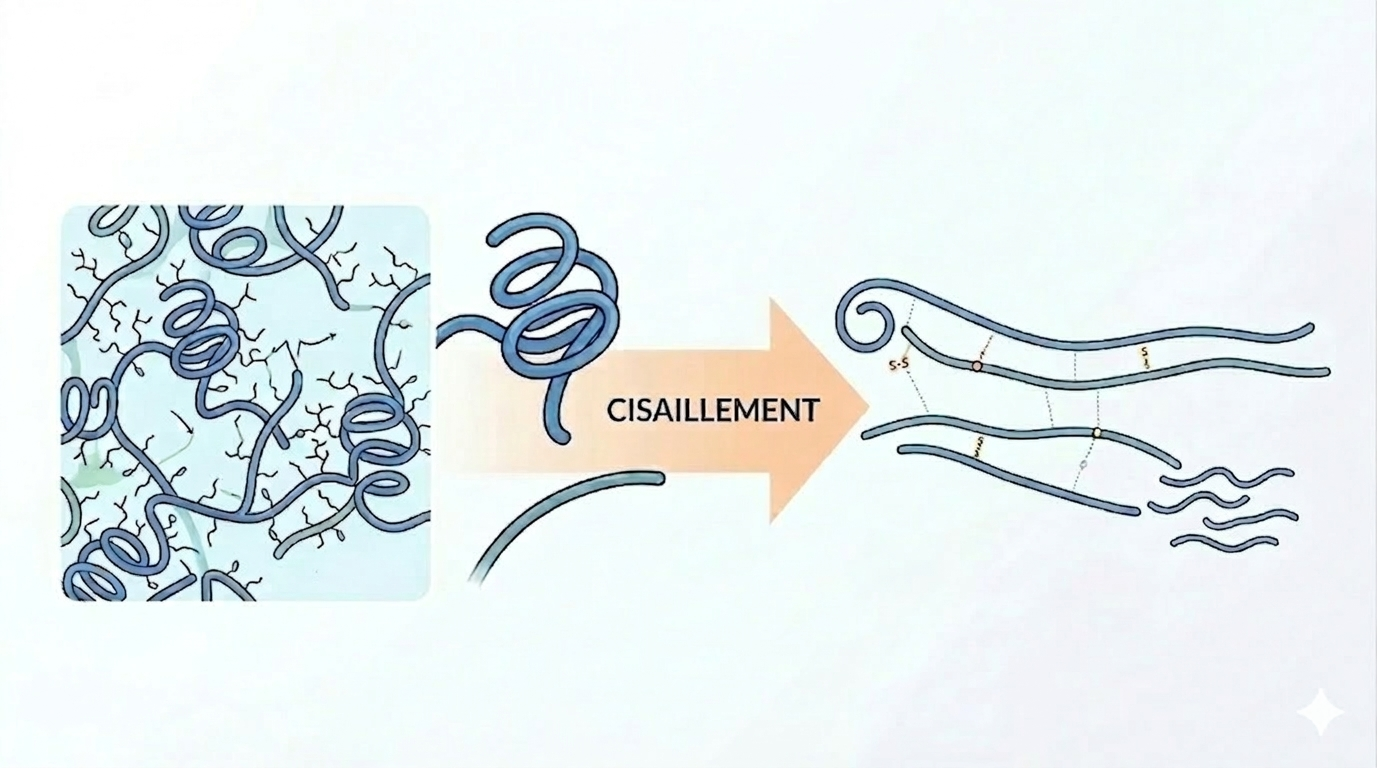
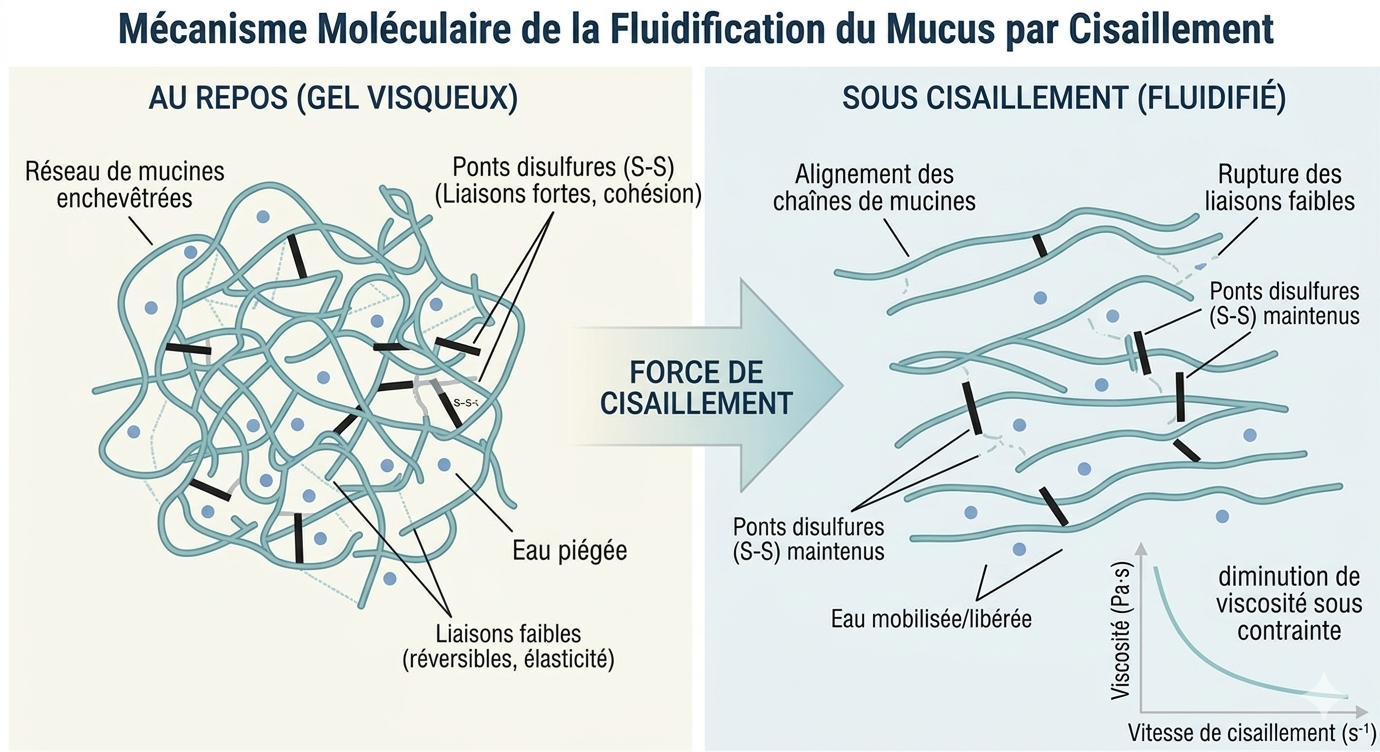
Add files via upload

diff --git a/article-respi.html b/article-respi.html
@@ -4,7 +4,7 @@
     <link href="https://fonts.googleapis.com/css2?family=Oswald:wght@700&family=Inter:wght@400;700;900&display=swap" rel="stylesheet">
     <meta charset="UTF-8">
     <meta name="viewport" content="width=device-width, initial-scale=1.0">
-    <title>La kinésithérapie respiratoire expliquée par une chimiste</title>
+    <title>Désencombrement bronchique : Quand la chimie explique le geste du kinésithérapeute</title>
     <link rel="stylesheet" href="style.css">
 </head>
 <body>
@@ -19,24 +19,29 @@
 
     <article class="article-content">
         <div class="post-preview" style="display: block; border: none; padding: 0;">
-            <h1>La kinésithérapie respiratoire expliquée par une chimiste</h1>
+            <h1>Désencombrement bronchique : Quand la chimie explique le geste du kinésithérapeute</h1>
             <p class="post-meta" style="margin-top: 1rem;">Publié le 14 Février 2026 • 6 min de lecture</p>
         </div>
 
-        <p>Lors de mon stage en service de réanimation, j’ai pu observer la vulnérabilité respiratoire des patients, souvent accentuée par le recours à une assistance respiratoire invasive. Qu'il s'agisse d'une sonde d’intubation ou d'une canule de trachéotomie, ces dispositifs exposent systématiquement au risque <b>d’encombrement bronchique.</b> Ce phénomène traduit une <b>défaillance des mécanismes naturels de protection</b> que le kinésithérapeute a pour objectif de pallier.</p>
+        <p>Lors de mon stage en service de réanimation, j’ai pu observer la vulnérabilité respiratoire des patients, souvent accentuée par le recours à une assistance respiratoire invasive. Qu'il s'agisse d'une sonde d’intubation ou d'une canule de trachéotomie, ces dispositifs exposent systématiquement au risque <b>d’encombrement bronchique.</b></p>
         
-        <p>Pour comprendre l'impact des techniques pratiquées par le kinésithérapeute sur un encombrement bronchique, j’ai dû plonger dans la chimie et la biophysique du <b>mucus.</b></p>
+        <p>Pour comprendre le rôle du kinésithérapeute dans la prise en charge d'un encombrement bronchique, j’ai dû plonger dans la physico-chimie du <b>mucus.</b></p>
 
         <h2>Le rôle du mucus dans la protection des voies respiratoires</h2>
         
-        <p>Véritable barrière protectrice des voies respiratoires, le mucus agit comme un filtre en piégeant les bactéries et les poussières avant qu'elles n'atteignent les zones profondes des poumons. Parallèlement à ce rôle de protection, il assure également l'hydratation et la lubrification de la paroi respiratoire, empêchant ainsi l'air inspiré de la dessécher ou de l'irriter.</p>
+        <p>Véritable barrière protectrice des voies respiratoires, le mucus agit comme un filtre en piégeant les bactéries, les virus et les particules de poussières avant qu'elles n'atteignent les zones profondes des poumons.
+            Ce mucus chargé d’impuretés est ensuite transporté vers
+            les voies aériennes supérieures grâce au mouvement des cils vibratiles : ce mécanisme
+            appelé clairance mucociliaire, permet leur élimination vers l’extérieur. </p>
         
-        <p>Ce double rôle s’explique par sa structure chimique. Cet hydrogel est composé à 97,5% d’eau, 0,9% de sels et 1,5% de molécules organiques, principalement des <b>mucines.</b> Ces protéines forment un réseau tridimensionnel dont la structure particulière lui confère des propriétés physiques essentielles :</p>
+        <p>Parallèlement à ce rôle de protection, le mucus assure également l'hydratation et la lubrification de la paroi respiratoire, empêchant ainsi l'air inspiré de la dessécher ou de l'irriter.</p>
+        
+        <p>Ce double rôle s’explique par sa structure chimique. Cet hydrogel est composé à 97,5% d’eau, 0,9% de sels et 1,5% de molécules organiques, principalement des <b>mucines.</b> Ces protéines forment un réseau tridimensionnel dont la structure particulière lui confère des propriétés physico-chimiques caractéristiques :</p>
 
         <ul>
-            <li><strong>La viscosité :</strong> elle est due aux liaisons covalentes fortes (ponts disulfures S-S) qui lient les mucines entre elles, permettant de capturer efficacement les agents pathogènes.</li>
-            <li><strong>L'élasticité :</strong> cette propriété repose sur des liaisons réversibles de faible énergie. Ces liaisons peuvent se rompre sous une contrainte mécanique, permettant au mucus de s'écouler : c'est la <b>pseudoplasticité.</b> Une fois la contrainte passée, le réseau se reforme, permettant au mucus de reprendre sa forme sans se rompre.</li>
-            <li><strong>La rétention d'eau :</strong> le réseau de mucines agit comme une éponge, maintenant l'humidité indispensable à la survie des cellules respiratoires.</li>
+            <li><strong>La viscosité :</strong> elle est due aux liaisons covalentes fortes (ponts disulfures S-S) qui lient les mucines entre elles, permettant de capturer efficacement les impuretés..</li>
+            <li><strong>L'élasticité :</strong> elle repose sur des liaisons réversibles de faible énergie. Ces liaisons peuvent se rompre sous une contrainte mécanique, permettant au mucus de se déformer et de se reformer.</li>
+            <li><strong>La rétention d'eau :</strong> : les groupements chimiques des mucines retiennent l’eau, ce qui garde les muqueuses hydratées et permet au mucus de s’écouler facilement.</li>
         </ul>
 
 
@@ -48,38 +53,43 @@
         </figure>
 
         <h2>Le basculement vers l'encombrement</h2>
-        
-        <p>L'efficacité de ce système repose sur la <b>clairance mucociliaire</b>, un mécanisme d'épuration où le mucus piège les agents pathogènes avant d'être transporté vers la gorge par le battement des cils vibratiles.</p>
-        
+                
         <p>L'équilibre est rompu lorsque le mucus devient <b>hyperconcentré et déshydraté</b>, un phénomène central dans les maladies muco-obstructives comme la mucoviscidose ou la BPCO. Dans ces conditions, le poids sec du mucus peut être 5 à 10 fois supérieur à la normale. Cette déshydratation transforme le gel protecteur en une <b>substance ultra-visqueuse et adhésive</b>, qui écrase les cils vibratiles, empêchant toute évacuation naturelle. Des plaques et des bouchons de mucus se forment alors, obstruant le passage de l’air et créant des zones d’hypoxie. L’accumulation de ce mucus stagnant empêche l'élimination des bactéries, formant un terrain propice à l'inflammation chronique et à l'infection.</p>
 
         <h2>Le rôle du kinésithérapeute</h2>
         
-        <p>Face à une clairance mucociliaire défaillante, le kinésithérapeute intervient pour compenser mécaniquement ce manque. Son rôle est de mobiliser les sécrétions de la périphérie pulmonaire vers les voies centrales afin d'en faciliter l'expulsion. En modulant avec précision les pressions et les flux, il parvient à vaincre l'inertie d'un mucus devenu trop visqueux ou adhérent.</p>
+        <p>Face à une clairance mucociliaire défaillante, le kinésithérapeute intervient pour compenser mécaniquement ce manque. Son rôle est de mobiliser les sécrétions de la périphérie pulmonaire vers les voies aériennes supérieures afin d'en faciliter l'expulsion. En modulant avec précision les pressions et les flux, il vainc l'inertie d'un mucus devenu trop visqueux ou adhérent.</p>
         
-        <p>Le geste technique : <b>l'Augmentation du Flux Expiratoire (AFE)</b>, consiste à accompagner le mouvement naturel d'expiration en appliquant une pression qui s'intensifie au fur et à mesure que les poumons se vident. Cette action augmente <b>la pression à l’extérieur des bronches (pression intrapleurale)</b> jusqu'à ce qu'elle soit supérieure à la pression à l'intérieur de celles-ci (pression intrabronchique) : c'est le <b>Point d'Égale Pression (PEP).</b></p>
+        <p>Le geste technique : <b>l'Augmentation du Flux Expiratoire (AFE)</b>, consiste à accompagner le mouvement naturel d'expiration en appliquant une pression qui s'intensifie au fur et à mesure que les poumons se vident. Cette action augmente <b>la pression à l’extérieur des bronches (pression intrapleurale)</b> jusqu'à ce qu'elle soit supérieure à la pression à l'intérieur de celles-ci (pression intrabronchique).</p>
         
         <p>Ce phénomène provoque une <b>compression dynamique des voies aériennes</b>, réduisant localement le diamètre de la bronche. Cette réduction de calibre génère une augmentation transitoire et localisée de la <b>vitesse de l'air</b> et de son degré de turbulence.</p>
         
-        <p>C’est cette accélération de l’air qui permet <b>l'interaction gaz-liquide</b> nécessaire au désencombrement. Le flux d’air frotte contre la couche muqueuse, générant une <b>force de cisaillement.</b> L'efficacité de cette force repose sur une propriété intrinsèque du mucus : son caractère <b>non-newtonien et pseudoplastique.</b></p>
+        <p>C’est cette accélération de l’air qui permet <b>l'interaction air-mucus</b> nécessaire au désencombrement. Le flux d’air frotte contre le mucus, générant une <b>force de cisaillement.</b> </p>
 
-        <blockquote>
-            <strong>Rappel :</strong> Un fluide est dit <b>pseudoplastique</b> lorsque sa viscosité diminue à mesure que la contrainte (la vitesse de l'air ici) augmente. Plus il est soumis à une contrainte, plus il devient "liquide".
-        </blockquote>
-
-        <p>Sous l'effet du cisaillement, l'énergie mécanique apportée est suffisante pour rompre temporairement les liaisons faibles du gel. Cette contrainte agit sur deux niveaux :</p>
+        <p>Sous l'effet du cisaillement, l'énergie mécanique apportée est suffisante pour rompre temporairement les liaisons faibles du mucus. Cette contrainte agit sur :</p>
 
         <ul>
             <li><strong>L'adhésion :</strong> elle rompt les liaisons entre le mucus et la paroi bronchique pour décoller le mucus.</li>
             <li><strong>La cohésion :</strong> elle fragmente les agglomérats de mucus en brisant leurs liaisons internes, réduisant ainsi leur viscosité.</li>
         </ul>
 
-        <p>Une fois ces liaisons rompues, le mucus devient moins visqueux et peut être entraîné dans le sens du flux. Ainsi, plus l'intervention du kinésithérapeute génère une vitesse d'air importante, plus la force de cisaillement devient efficace pour rompre les liaisons du mucus, facilitant alors sa mobilisation et son évacuation.</p>
+        <blockquote>
+            A noter : Ces effets sont possibles grâce au comportement non newtonien du mucus.
+                Sous la contrainte mécanique, les liaisons faibles des mucines se rompent, entrainant une
+                réorganisation de la structure et diminuant ainsi sa viscosité.
+                Ce comportement newtonien se manifeste de deux façons :
+                <ul>
+                <li><strong>Pseudoplasticité :</strong> le mucus devient plus fluide instantanément sous cisaillement</li>
+                rapide
+                <li><strong>Thixotropie :</strong> le mucus devient plus fluide progressivement sous contrainte prolongée</li>
+                </ul>
+        </blockquote>
+
+        <p>Une fois ces liaisons rompues, le mucus devient donc moins visqueux et peut être entraîné dans le sens du flux, libérant ainsi les voies respiratoires.</p>
 
         <figure style="margin: 3rem 0; text-align: center;">
             <img src="image_5.png" alt="Mécanisme Moléculaire de la Thixotropie du Mucus" style="width: 100%; max-width: 800px; height: auto; border-radius: 4px;">
             <figcaption style="font-size: 0.85rem; color: #6B6B6B; margin-top: 0.8rem; font-style: italic;">
-                Mécanisme Moléculaire de la Thixotropie du Mucus.
             </figcaption>
         </figure>
 
@@ -87,9 +97,26 @@
 
         <section class="about-section">
             <h2>En résumé</h2>
-            <p>La kinésithérapie respiratoire illustre la synergie entre le <b>geste thérapeutique et la chimie / biophysique.</b> En modulant les pressions pour générer un <b>effet de cisaillement</b>, le praticien rompt les liaisons de faible énergie stabilisant le gel. Ce processus exploite la <b>pseudoplasticité</b> du mucus : sa viscosité chute sous la contrainte, permettant de le mobiliser. En restaurant artificiellement la clairance, le kinésithérapeute brise le cycle de l’encombrement pathologique, protégeant l’intégrité pulmonaire et la survie des patients les plus fragiles.</p>
+            <p>La physicochimie du mucus permet de comprendre pourquoi augmenter le flux expiratoire,
+                comme le fait le kinésithérapeute lors d’un encombrement bronchique, aide à mobiliser et
+                évacuer les sécrétions.</p>
+            <p>En modulant les pressions pour créer un effet de cisaillement, le praticien diminue la
+                viscosité du mucus. Celuici devient alors plus fluide, ce qui facilite sa mobilisation et son
+                évacuation. Ce mécanisme repose sur le caractère non newtonien du mucus : sa viscosité
+                diminue lorsqu’il est soumis à une contrainte.</p>
+            <p>En restaurant artificiellement la clairance via l'augmentation du flux expiratoire,, le kinésithérapeute brise alors le cycle de l’encombrement bronchique, protégeant l’intégrité pulmonaire du patient.</p>
         </section>
     </article>
+
+            <p style="font-size: 0.85rem; color: var(--meta-color); margin-top: 1.5rem;">
+                <em>Sources : <br>Girod, S., Zahm, J. M., Plotkowski, C., Beck, G., & Puchelle, E. (1992). Role of the physicochemical properties of mucus in the protection of the respiratory epithelium. European Respiratory Journal, 5, 477-487.</em>
+                <br>
+                <em>Reychler, G., Audag, N., Prieur, G., Poncin, W., & Contal, O. (2024). Recommandations pour la prise en charge de l’encombrement des voies aériennes par les techniques de désencombrement. Revue des Maladies Respiratoires. </em>
+                <br>
+                <em>Hill, D. B., Button, B., Rubinstein, M., & Boucher, R. C. (2022). Physiology and pathophysiology of human airway mucus. Physiological Reviews, 102(4), 1757–1836. </em>
+                <br>
+                <em> Demouveaux, B., Gouyer, V., Magnien, M., Plet, S., Gottrand, F., Narita, T., & Desseyn, J. L. (2018). La structure des mucines conditionne les propriétés viscoélastiques des gels de mucus. médecine/sciences, 34(10), 806-812</em>
+            </p>
 
     <footer>
         <p>© 2026 - Mathilde Gourhant</p>

diff --git a/index.html b/index.html
@@ -20,13 +20,15 @@
                 <article class="post-preview">
                     <div class="post-meta">16 Mars 2026 • 8 min de lecture</div>
                     <h2><a href="article-tendinite.html">Tendinite : Comprendre la douleur pour mieux guérir</a></h2>
-                    <p>La tendinite, une pathologie tellement commune et pourtant si mal comprise.</p>
+                    <p><b>Très répandue, la tendinite est souvent mal comprise.</b> 
+                        On l'accuse d'être une simple inflammation, mais la réalité est bien plus profonde. Plongée au cœur de la tendinopathie </p>
                 </article>
 
                 <article class="post-preview">
                     <div class="post-meta">14 Février 2026 • 6 min de lecture</div>
-                    <h2><a href="article-respi.html">La kinésithérapie respiratoire expliquée par une chimiste</a></h2>
-                    <p>Lors d’un stage d’observation en milieu hospitalier, j’ai eu l’opportunité d’observer un pan de la kinésithérapie que je ne soupçonnais pas : la kinésithérapie respiratoire. </p>
+                    <h2><a href="article-respi.html">Désencombrement bronchique : Quand la chimie explique le geste du kinésithérapeute</a></h2>
+                    <p><b>Pourquoi l’encombrement bronchique est-il si difficile à évacuer ?</b> La
+                        réponse se cache dans les propriétés physico-chimiques du mucus, allons voir ça de plus près. </p>
                 </article>
 
                 <article class="post-preview format-flash" style="border-left: 4px solid #6c5ce7; padding-left: 15px; background: #f9f9f9;">
@@ -43,9 +45,11 @@
                     <div class="about-text">
                         <h2>Salut, moi c'est Mathilde 👋</h2>
                         <p>
-                            Docteure en chimie médicinale, passionnée par le sport et la santé, j’ai choisi de me réorienter vers la masso-kinésithérapie. Je souhaite aujourd'hui placer mes connaissances scientifiques au profit d'un métier de soin tourné vers l’humain.</p>
+                            Docteure en chimie médicinale, passionnée par le sport et la santé, j’ai choisi de me réorienter vers la masso-kinésithérapie. Je souhaite aujourd'hui utiliser mes connaissances scientifiques au profit d'un métier de soin tourné vers l’humain.</p>
                         <p>
-                            À travers ce blog, je souhaite démontrer que la chimie et la kinésithérapie sont liées. Pour illustrer cela, j'ai sélectionné des sujets qui font sens pour moi et qui mettent en lumière la science derrière le soin.</p>
+                            À travers ce blog, je veux montrer le lien entre chimie et la kinésithérapie. Pour
+                            illustrer cela, j’ai sélectionné des sujets qui me tiennent à cœur et qui me
+                            permettront de vous expliquer le soin par la science.</p>
                         <p>
                             Je vous souhaite une bonne lecture 🧪💪</p>
                         </p>
